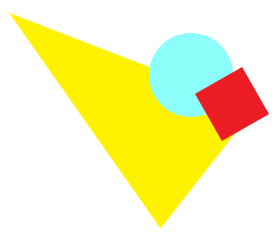
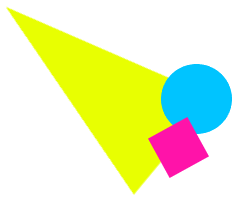
created shape images and placed in html

diff --git a/styles.css b/styles.css
@@ -1,6 +1,6 @@
 body {
-    margin: 0;
-    padding: 0;
+    margin: none;
+    padding: none;
     font-family: "Ubuntu", sans-serif;
     box-sizing: border-box;
     height: 100vh;
@@ -48,11 +48,10 @@ body {
 }
 
 .welcome-card {
-    width: 50%;
+    width: 30%;
     text-align: center;
     z-index: 2;
     position: relative;
-    border-radius: 50%;
 }
 
 #welcome-portfolio {
@@ -62,6 +61,7 @@ body {
     text-transform: lowercase;
     transition: 0.5s;
     letter-spacing: 3px;
+    padding: 10px;  
 }
 
 .glow-text {
@@ -82,3 +82,40 @@ body {
     3px 3px 30px rgba(255, 255, 0, 0.5),
     3px 3px 40px rgba(255, 255, 0, 0.4);
 }
+
+#circle-team, #triangle-team, #rectangle-team, #square-team {
+    position: absolute;
+}
+
+#circle-team {
+    top: 0;
+    left: 50%;
+    transform: translate(-50%);
+    max-width: 200px;
+}
+
+#triangle-team {
+    bottom: 0;
+    left: 50%;
+    transform: translate(-50%);
+    max-width: 200px;
+}
+
+#rectangle-team {
+    top: 50%;
+    left: 0;
+    transform: translateY(-50%);
+    max-width: 200px;
+}
+
+#square-team {
+    top: 50%;
+    right: 0;
+    transform: translateY(-50%);
+    max-width: 250px;
+}
+
+.content {
+    text-align: center;
+}
+

diff --git a/index.html b/index.html
@@ -14,15 +14,20 @@
   </head>
   <body>
     <div class="sparkling-bg"></div>
+    <img id="square-team" src="./images/SquareTeam.png" />
+    <img id="circle-team" src="./images/CircleTeam.png" />
+    <img id="triangle-team" src="./images/TriangleTeam.png" />
+    <img id="rectangle-team" src="./images/RectangleTeam.png" />
+
     <div class="welcome-card">
       <div class="content">
         <p id="welcome-portfolio">
-            <span class="glow-text">Welcome</span>
-            <br>
-            <span class="glow-text">to</span>
-            <span class="glow-text">My</span>
-            <br>
-            <span class="glow-text">Portfolio</span>
+          <span class="glow-text">Welcome</span>
+          <br />
+          <span class="glow-text">to</span>
+          <span class="glow-text">My</span>
+          <br />
+          <span class="glow-text">Portfolio</span>
         </p>
       </div>
     </div>
